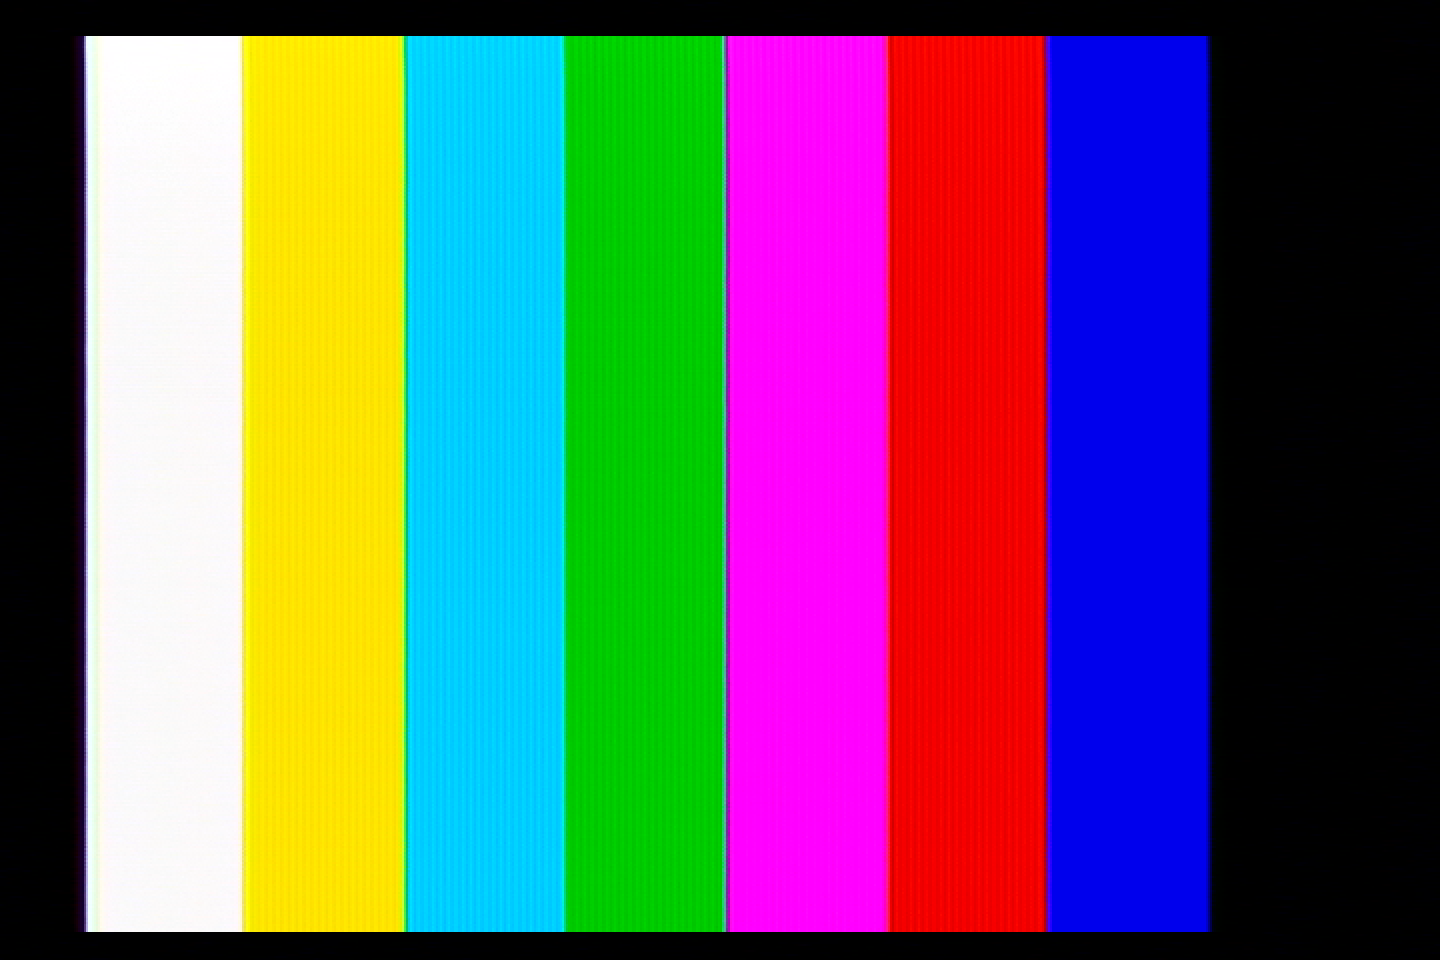
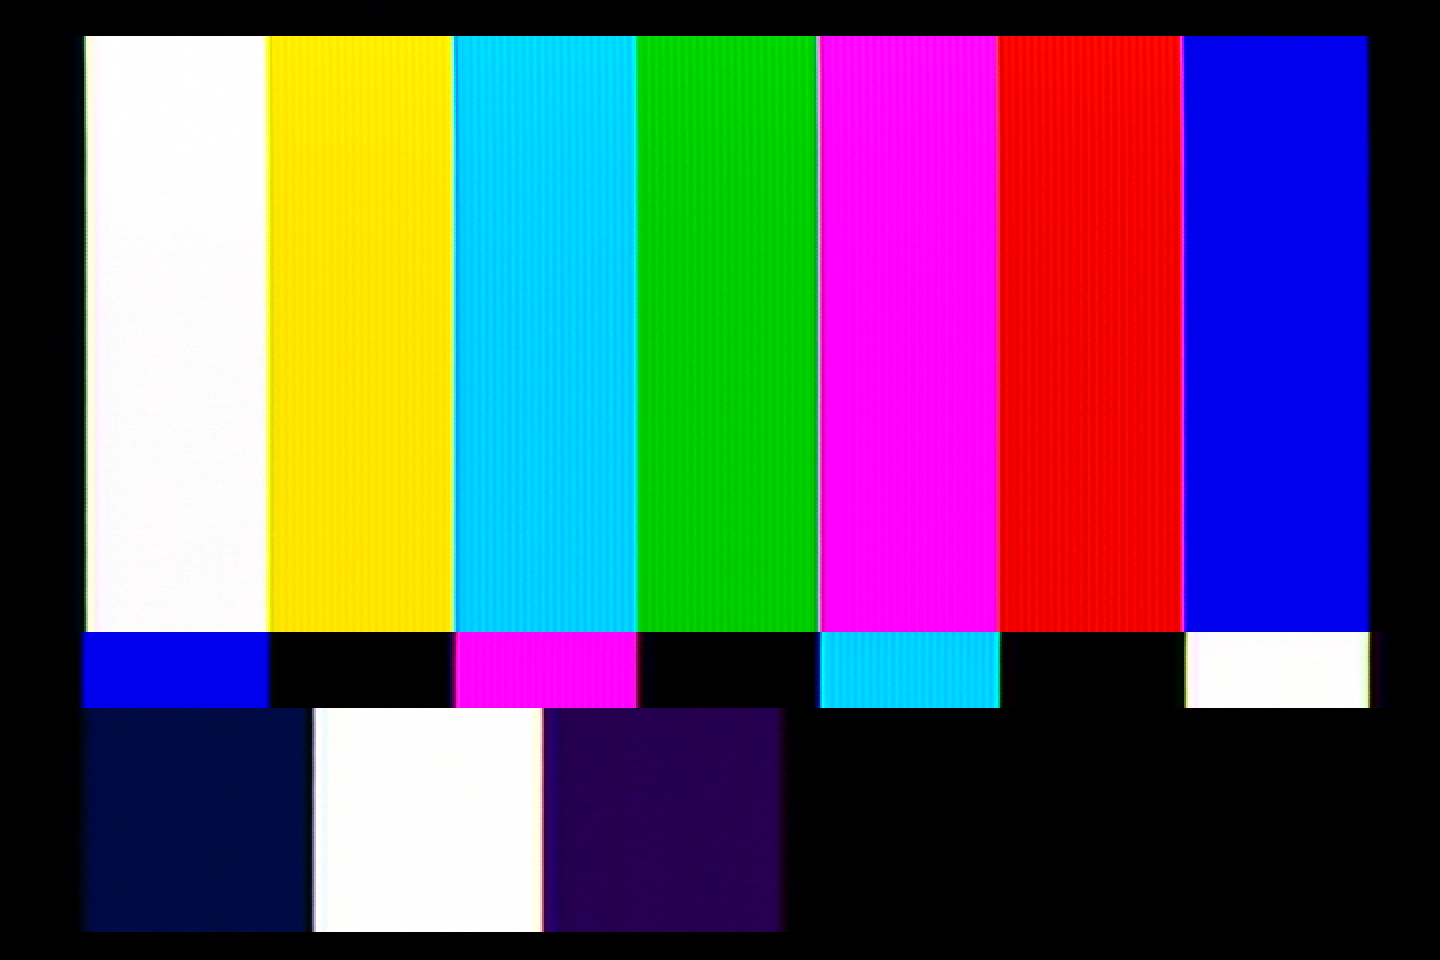
updated article

diff --git a/_posts/electronics/2025-11-21-notch-and-comb-filter-comparison-for-composite-video-decoding-and-retro-gaming.md b/_posts/electronics/2025-11-21-notch-and-comb-filter-comparison-for-composite-video-decoding-and-retro-gaming.md
@@ -264,7 +264,7 @@ I purchased this on eBay for $9, and they don't seem too difficult to find onlin
 ![SMW](/assets/img/Radioshack02.png)
 ![Duck Tales](/assets/img/Radioshack01.png)
 
-This one was recommended to me by someone as a competitor to the Entech CSVC-1 (next in the lineup) and it does do a really good job! It has a bit more Chroma interference in Luma than the Entech, which you can see most clearly in the Duck Tales and Super Mario World screenshots which have more diagonal dot artifacts than the Entech, and in the rainbow banding in Sonic (and the jailbars are more noticeable on Genesis), but it's quite good and in some ways better than the Entech. Some examples of where it is better is the text in Duck Tales, Mario's hat (and pretty much everything else) in Mario 64, overall the colors are a bit more saturated, and it has slightly better color blending and dithering blending.
+This one was recommended to me by Joshua Cadmium as a competitor to the Entech CSVC-1 (next in the lineup) and it does do a really good job! It has a bit of Chroma interference in Luma which you can see most clearly in the rainbow banding in Sonic, but it's quite good and in most ways better than the Entech. Some examples of where it is better is the text in Duck Tales, Mario's hat (and pretty much everything else) in Mario 64, overall the colors are a bit more saturated, and it has slightly better color blending and dithering blending.
 
 ### Entech CSVC-1
 
@@ -281,8 +281,7 @@ Thanks to kitty666cats/Mike Lindquist, a fellow member of the CRT community, I g
 ![SMW](/assets/img/Entech%2002.png)
 ![Duck Tales](/assets/img/Entech%2001.png)
 
-This one has less dot crawl and rainbow artifacts than the Tributaries, Kramer and Extron. It still exhibits a fair bit of dot crawl on NES games however.
-
+This one has less dot crawl and rainbow artifacts than the Tributaries, Kramer and Extron, but more than the Radioshack filter. It exhibits a fair bit of dot crawl on NES games in particular.
 
 ### manadream Notch Filter
 